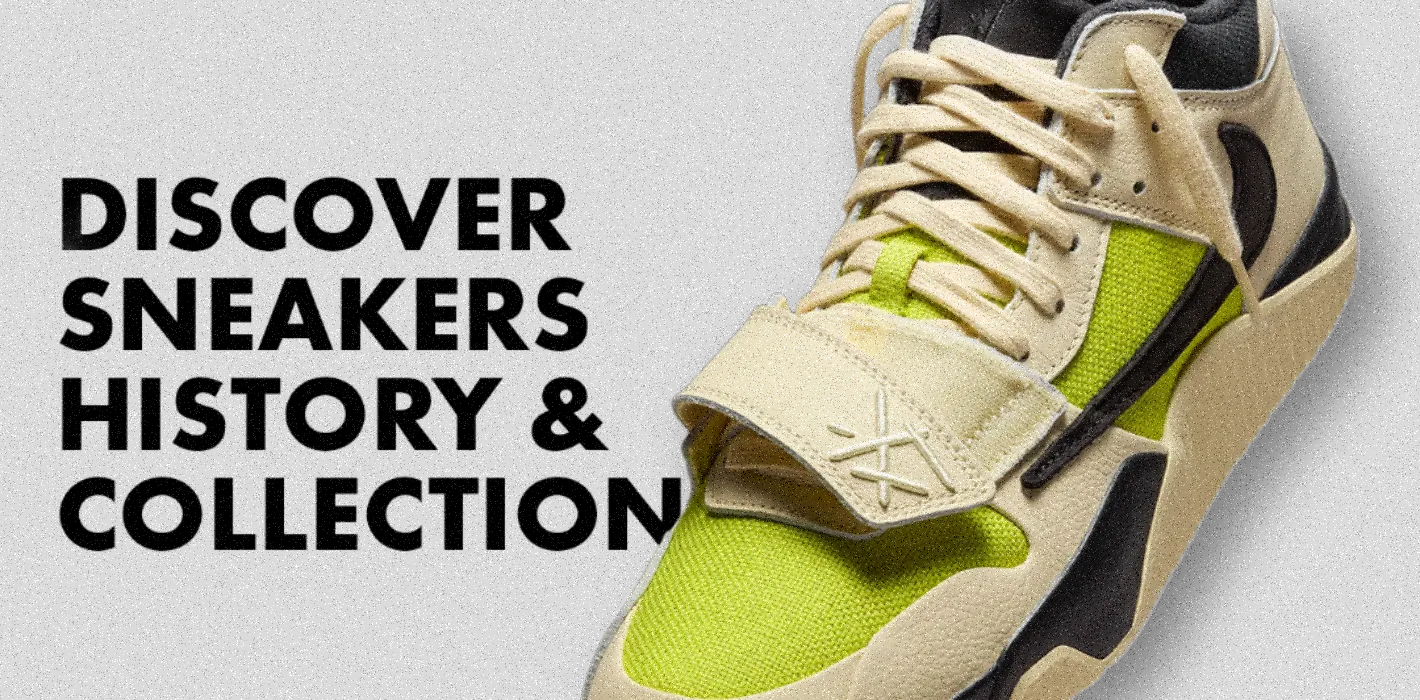
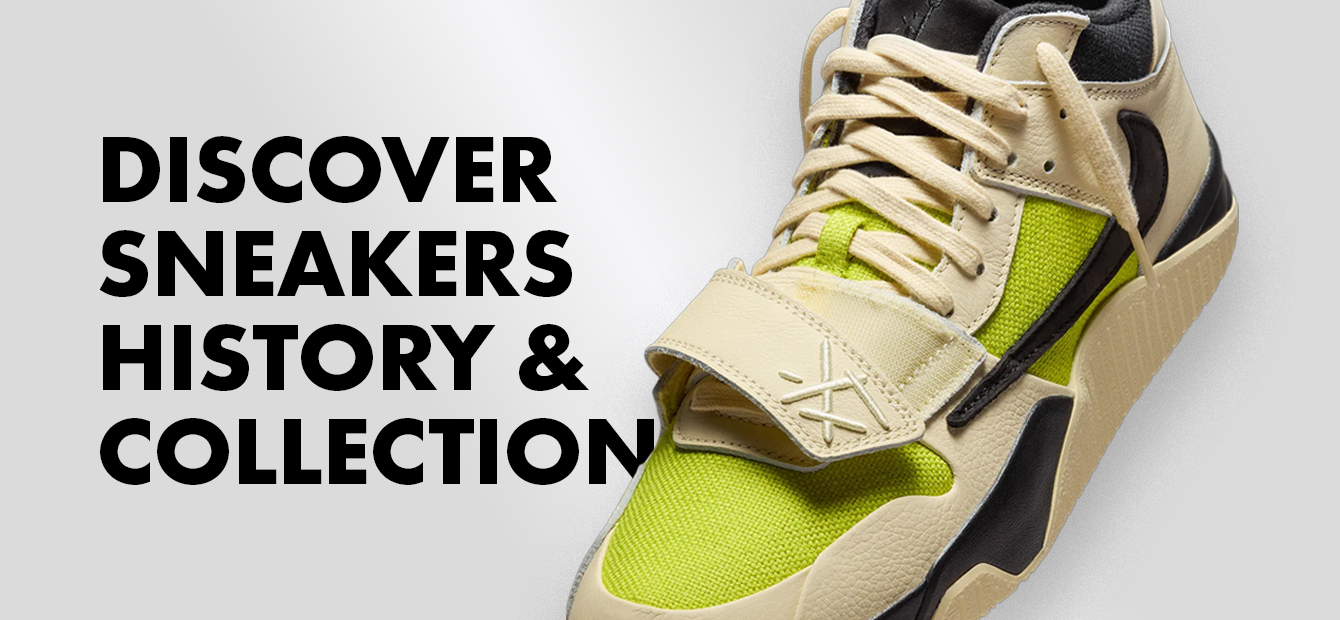
hero img responsive

diff --git a/css/style.css b/css/style.css
@@ -97,7 +97,7 @@ p::selection, h2::selection, li::selection, a::selection {
     display: block;
 }
 
-.hero-1000, .hero-680, .hero-460, .hero-320 {
+.hero-1240, .hero-1000, .hero-680, .hero-460 {
     display: none;
 }
 
@@ -492,7 +492,7 @@ p.footer-logo {
         display: none;
     }
 
-    .hero-1000 {
+    .hero-1240 {
         display: block;
     }
 
@@ -563,11 +563,11 @@ p.footer-logo {
 }
 
 @media (max-width:1000px) {
-    .hero-1000 {
+    .hero-1240 {
         display: none;
     }
 
-    .hero-680 {
+    .hero-1000 {
         display: block;
     }
 
@@ -658,6 +658,7 @@ p.footer-logo {
     .nav-2 a.logo-2 {
         text-decoration: none;
         color: #111;
+        font-size: 18px;
         font-weight: 700;
         user-select: none;
         position: relative;
@@ -848,11 +849,11 @@ p.footer-logo {
 }
 
 @media (max-width:680px) {
-    .hero-680 {
+    .hero-1000 {
         display: none;
     }
 
-    .hero-460 {
+    .hero-680 {
         display: block;
     }
 
@@ -882,12 +883,16 @@ p.footer-logo {
 }
 
 @media (max-width:460px) {
-    .hero-460 {
+    .hero-680 {
         display: none;
     }
 
-    .hero-320 {
+    .hero-460 {
         display: block;
+    }
+
+    .hero {
+        height: 580px;
     }
 }
 

diff --git a/index.html b/index.html
@@ -47,10 +47,10 @@
             <section>
                 <div class="hero">
                     <img src="img/hero/index-hero.png" alt="" class="hero-max">
-                    <img src="img/hero/index-hero-1000px.png" alt="" class="hero-1000">
-                    <img src="img/hero/index-hero-680px.png" alt="" class="hero-680">
-                    <img src="img/hero/test.png" alt="" class="hero-460">
-                    <img src="img/hero/index-hero-320px.png" alt="" class="hero-320">
+                    <img src="img/hero/hero-1240/index-hero-1240.png" alt="" class="hero-1240">
+                    <img src="img/hero/hero-1000/index-hero-1000.png" alt="" class="hero-1000">
+                    <img src="img/hero/hero-680/index-hero-680.png" alt="" class="hero-680">
+                    <img src="img/hero/hero-460/index-hero-460.png" alt="" class="hero-460">
                 </div>
             </section>
         </header>
